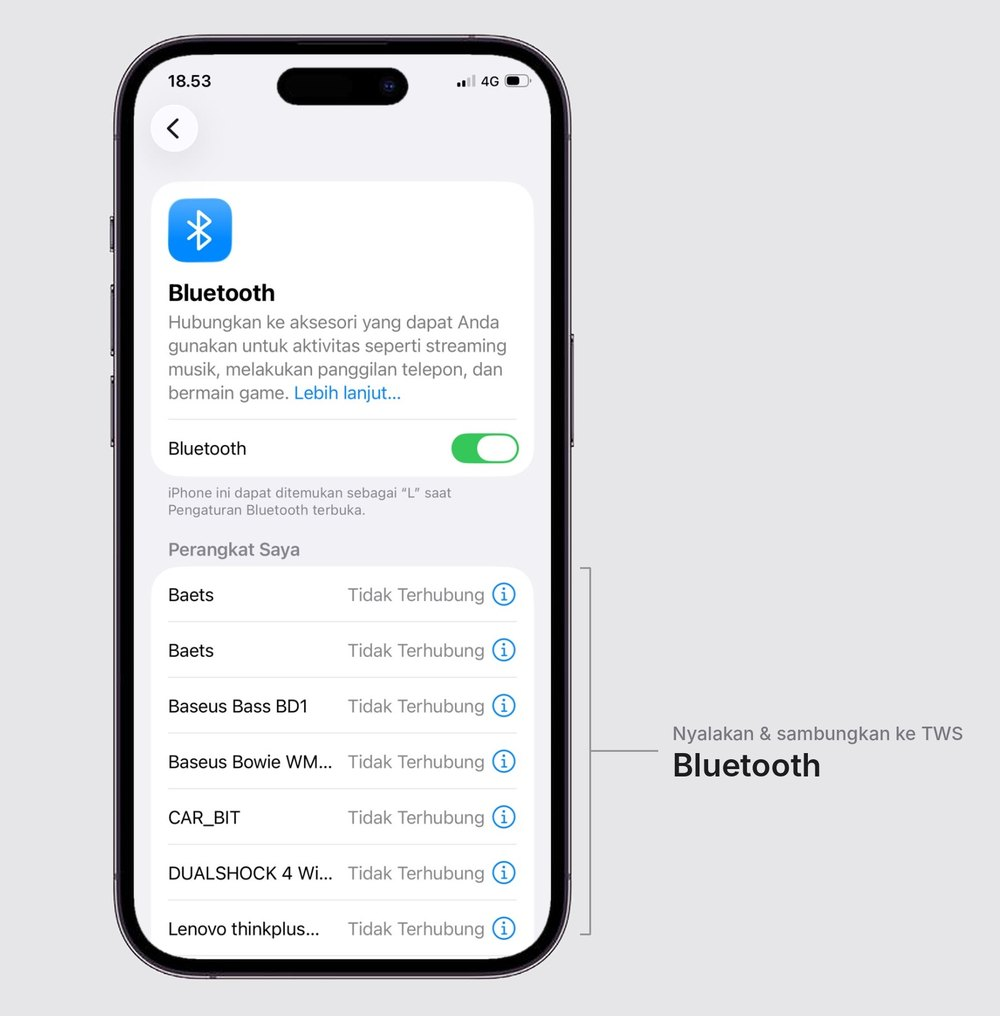
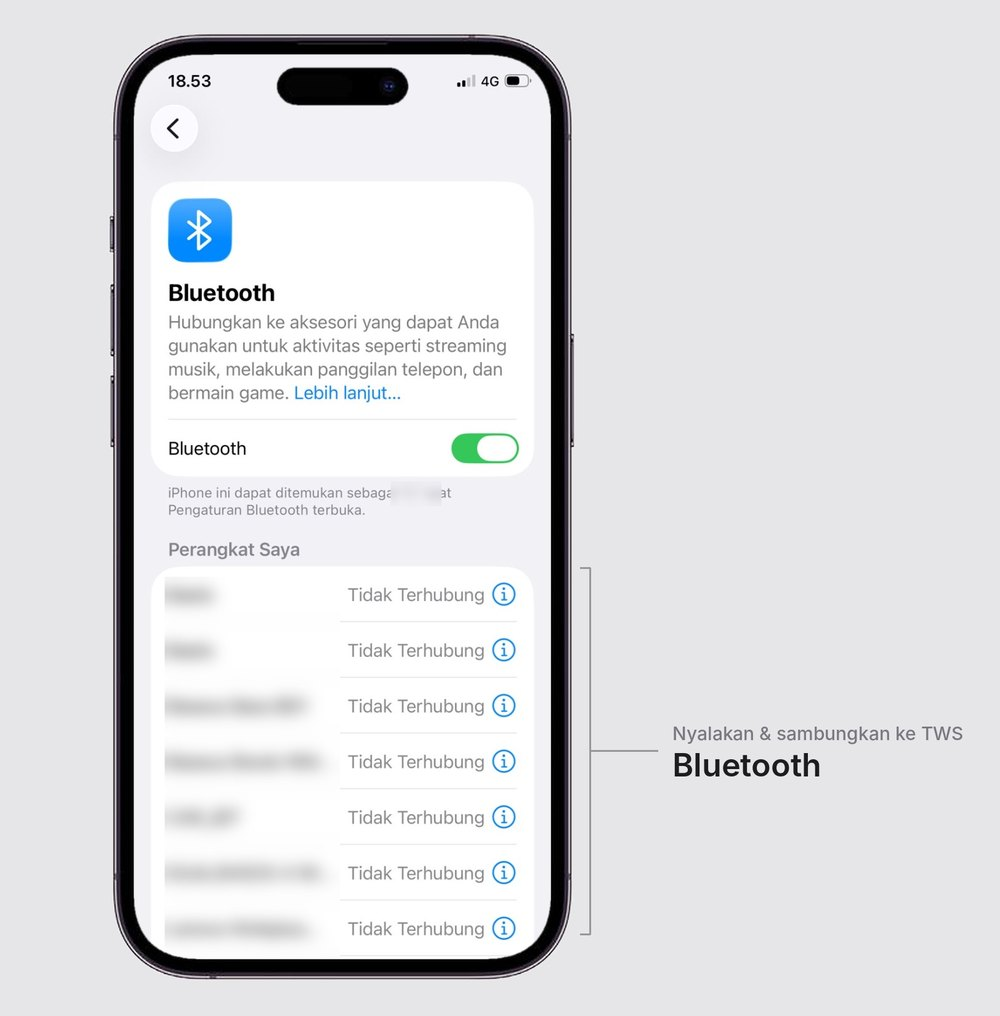
Samarkan nama jaringan Wi-Fi dan perangkat Bluetooth di gambar contoh
Nama jaringan, nama perangkat Bluetooth, dan nama iPhone di keterangan
diblur. Cache service worker v13 agar gambar lama di HP terganti.

Claude-Session: https://claude.ai/code/session_01T5xMfUmYxqi5fKuphGFddX

Changed region(s): [[0.155, 0.7933, 0.341, 0.9459], [0.155, 0.5797, 0.341, 0.7628]]

diff --git a/sw.js b/sw.js
@@ -1,4 +1,4 @@
-const C="cek-iphone-v12";
+const C="cek-iphone-v13";
 const CORE=["./","./index.html"];
 self.addEventListener("install",e=>{
   // cache:"reload" = ambil langsung dari server, jangan dari cache browser
